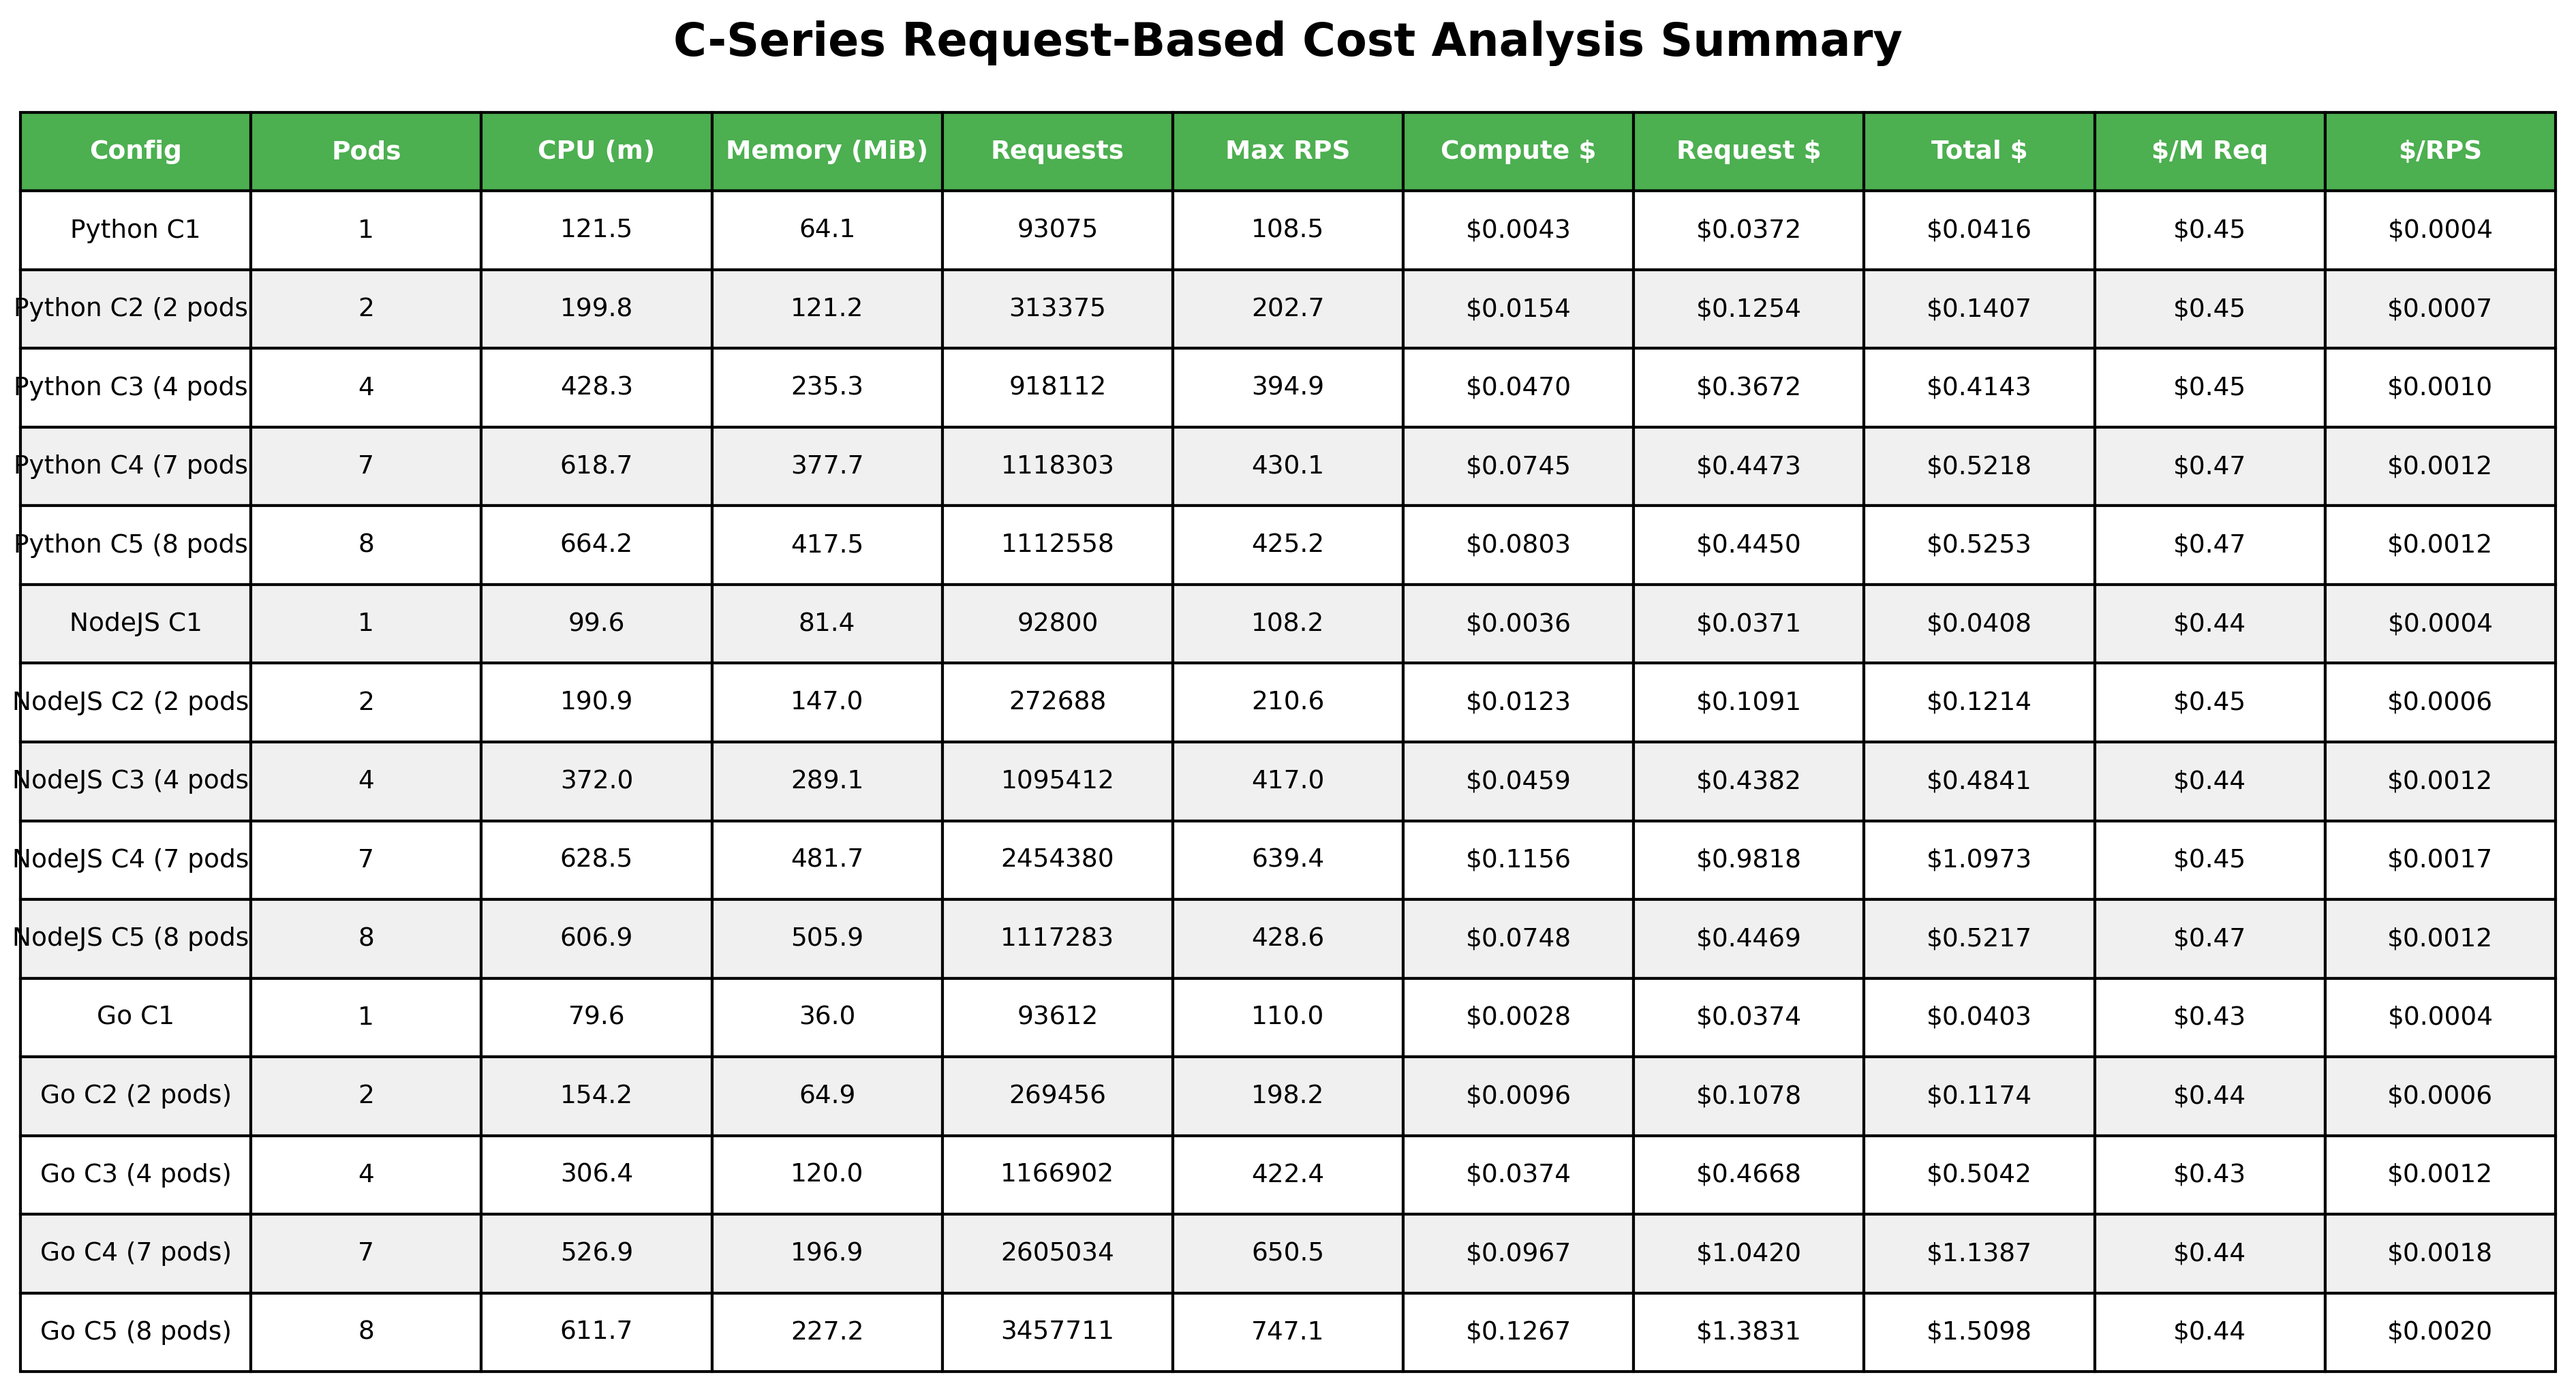
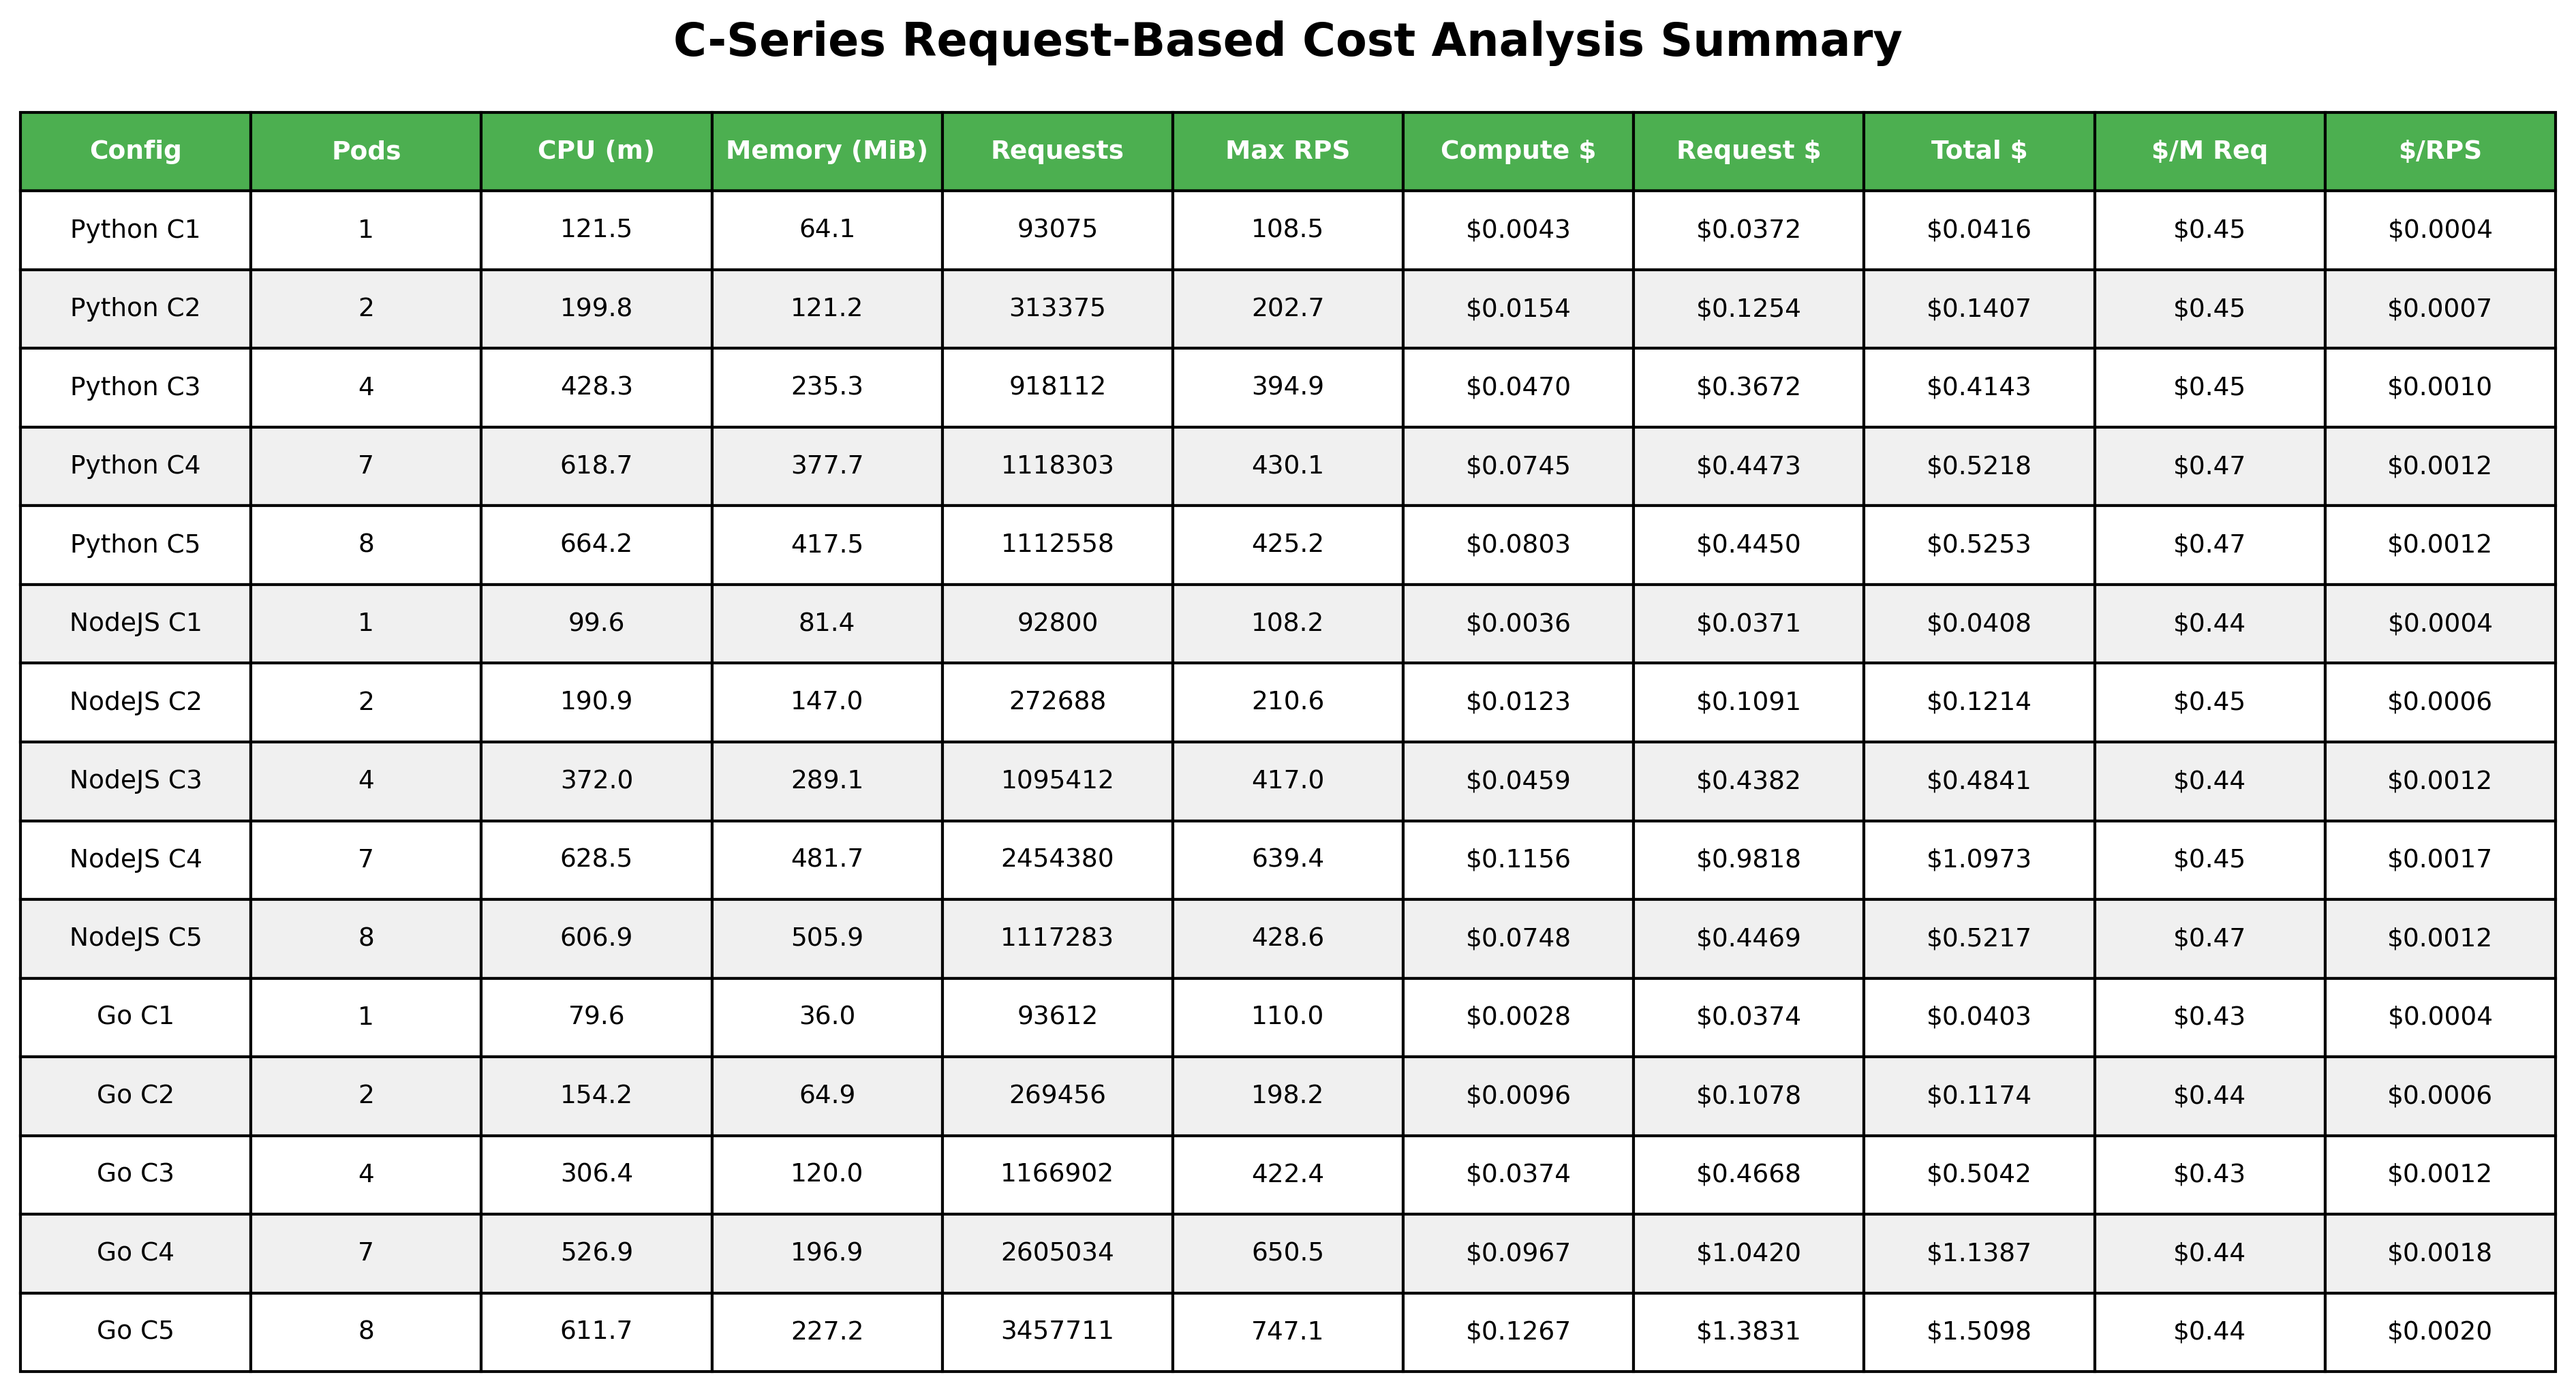
Fix configuration name cleaning in summary tables
- Update regex pattern to handle both 'pod' and 'pods' (singular and plural)
- Regenerate all summary tables for A, B, C series
- Ensure clean configuration names without pod count in all tables
- Apply fix to both request-based and instance-based visualizers

diff --git a/latency_analysis/gcr_cost_visualizer_inst.py b/latency_analysis/gcr_cost_visualizer_inst.py
@@ -234,7 +234,7 @@ class GCRInstanceCostVisualizer:
     def create_cost_summary_table(self, results_df, series_type="B", save_path=None):
         """Create a formatted summary table for instance-based billing"""
         # Prepare data for table - remove pod info from config names and shorten column names
-        config_names = results_df['config'].str.replace(r' \(\d+ pod\)', '', regex=True)
+        config_names = results_df['config'].str.replace(r' \(\d+ pods?\)', '', regex=True)
         summary_data = {
             'Config': config_names,
             'Pods': results_df['pods'].astype(int),

diff --git a/latency_analysis/gcr_cost_visualizer.py b/latency_analysis/gcr_cost_visualizer.py
@@ -225,7 +225,7 @@ class GCRCostVisualizer:
     def create_cost_summary_table(self, results_df, series_type="B", save_path=None):
         """Create a formatted summary table"""
         # Prepare data for table - remove pod info from config names and shorten column names
-        config_names = results_df['config'].str.replace(r' \(\d+ pod\)', '', regex=True)
+        config_names = results_df['config'].str.replace(r' \(\d+ pods?\)', '', regex=True)
         summary_data = {
             'Config': config_names,
             'Pods': results_df['pods'].astype(int),
